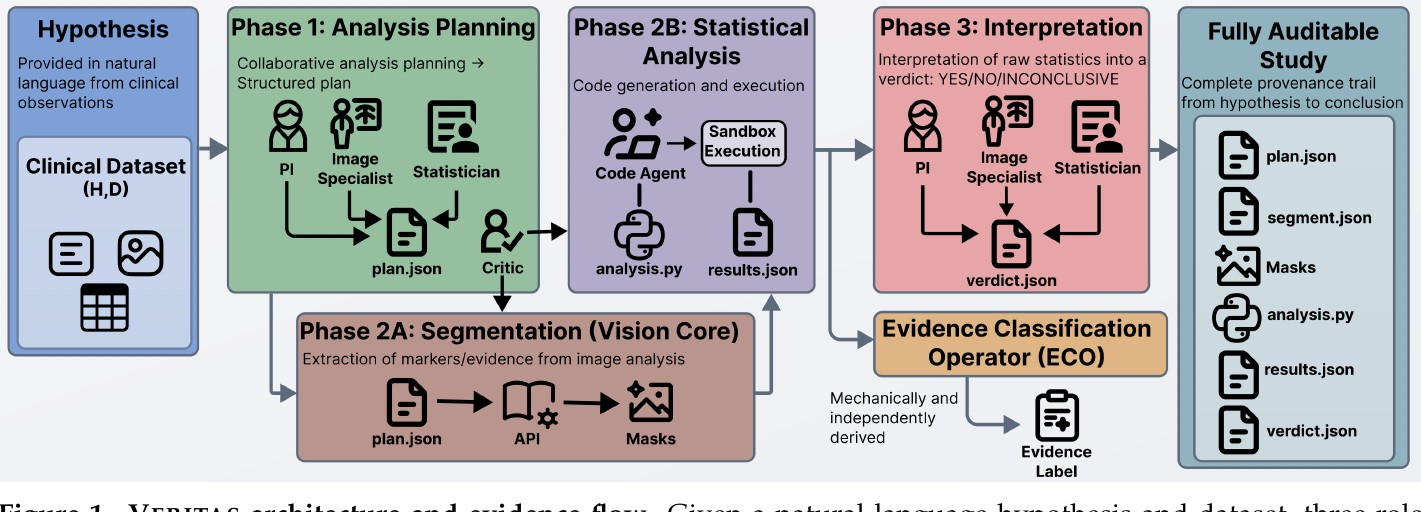
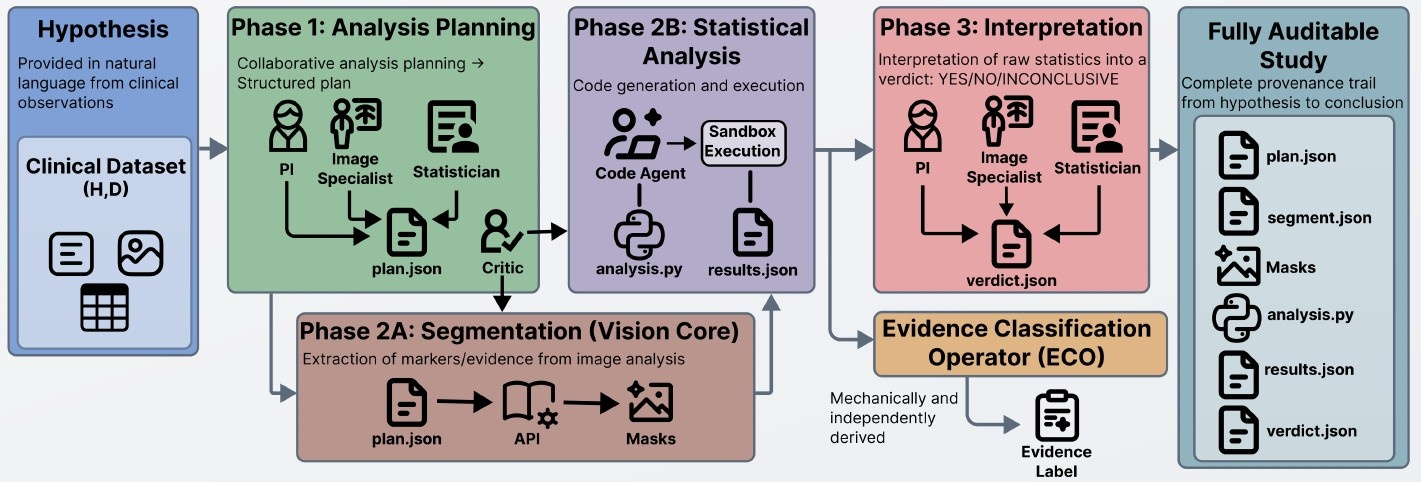
Crop VERITAS hero figure cleanly

diff --git a/js/featured-publications.js b/js/featured-publications.js
@@ -83,7 +83,7 @@ const HERO_TEASERS = {
   auto_6295fd2b61: "Synthetic OCTA data teaches VLMs clinical reasoning."
 };
 
-const DATA_VERSION = window.PaetzoldSite?.componentVersion || "20260615u";
+const DATA_VERSION = window.PaetzoldSite?.componentVersion || "20260615v";
 
 function escapeHTML(value) {
   return String(value ?? "").replace(/[&<>"']/g, char => ({
@@ -244,6 +244,14 @@ function publicationImage(pub) {
   return normalizeLink(pub?.thumbnail) || "./images/publications/default.png";
 }
 
+function versionedImage(src) {
+  const link = normalizeLink(src);
+  if (!link || /^(?:https?:|data:|blob:)/i.test(link)) return link;
+  const url = new URL(link, window.location.href);
+  url.searchParams.set("v", DATA_VERSION);
+  return url.href;
+}
+
 function heroImageAttrs(slideIndex, imageIndex) {
   if (slideIndex === 0) {
     return imageIndex === 0
@@ -280,9 +288,10 @@ function heroCollageItems(pub) {
   return uniqueItems.map((item, offset) => {
     const figureLabel = item.label || pub?.title || "Featured research figure";
     const fullLabel = item.label ? `${pub?.title || "Featured research"} - ${item.label}` : figureLabel;
+    const src = normalizeLink(item.src) || publicationImage(pub);
     return {
       className: classes[offset],
-      src: normalizeLink(item.src) || publicationImage(pub),
+      src: versionedImage(src),
       position: item.position || "center",
       title: figureLabel,
       ariaLabel: fullLabel

diff --git a/index.html b/index.html
@@ -29,12 +29,12 @@
     {"@context":"https://schema.org","@type":"Organization","name":"Paetzold Lab","url":"https://paetzold-lab.github.io/web/","logo":"https://paetzold-lab.github.io/web/images/web_logo.png","description":"Paetzold Lab develops machine learning methods for computer vision, medical imaging, topology, graph learning, and generative AI at Weill Cornell Medicine and Cornell Tech.","parentOrganization":[{"@type":"CollegeOrUniversity","name":"Weill Cornell Medicine"},{"@type":"CollegeOrUniversity","name":"Cornell Tech"}]}
   </script>
 
-  <link rel="stylesheet" href="css/style.css?v=20260615u" />
+  <link rel="stylesheet" href="css/style.css?v=20260615v" />
   <link rel="stylesheet" href="css/contact.css?v=20260615l" />
   <link rel="stylesheet" href="css/research_show.css?v=20260615l" />
-  <script src="js/components.js?v=20260615u" defer></script>
-  <script src="js/main.js?v=20260615u" defer></script>
-  <script src="js/featured-publications.js?v=20260615u" defer></script>
+  <script src="js/components.js?v=20260615v" defer></script>
+  <script src="js/main.js?v=20260615v" defer></script>
+  <script src="js/featured-publications.js?v=20260615v" defer></script>
 </head>
 <body>
   <!-- Component placeholders -->

diff --git a/research.html b/research.html
@@ -23,11 +23,11 @@
   <meta name="twitter:description" content="Recent and representative publications from Paetzold Lab in medical imaging, topology, graph learning, generative AI, and vision-language models." />
   <meta name="twitter:image" content="https://paetzold-lab.github.io/web/images/team/paetzold-lab-group-2026.jpg" />
 
-  <link rel="stylesheet" href="css/style.css?v=20260615u">
+  <link rel="stylesheet" href="css/style.css?v=20260615v">
   <link rel="stylesheet" href="css/research.css?v=20260615m">
-  <script src="js/components.js?v=20260615u" defer></script>
-  <script src="js/main.js?v=20260615u" defer></script>
-  <script type="module" src="js/publications.js?v=20260615u" defer></script>
+  <script src="js/components.js?v=20260615v" defer></script>
+  <script src="js/main.js?v=20260615v" defer></script>
+  <script type="module" src="js/publications.js?v=20260615v" defer></script>
 </head>
 <body>
   <!-- Component placeholders -->

diff --git a/contact.html b/contact.html
@@ -23,10 +23,10 @@
   <meta name="twitter:description" content="Contact Paetzold Lab at Weill Cornell Medicine and Cornell Tech." />
   <meta name="twitter:image" content="https://paetzold-lab.github.io/web/images/team/paetzold-lab-group-2026.jpg" />
 
-  <link rel="stylesheet" href="css/style.css?v=20260615u">
+  <link rel="stylesheet" href="css/style.css?v=20260615v">
   <link rel="stylesheet" href="css/contact.css?v=20260615l">
-  <script src="js/components.js?v=20260615u" defer></script>
-  <script src="js/main.js?v=20260615u" defer></script>
+  <script src="js/components.js?v=20260615v" defer></script>
+  <script src="js/main.js?v=20260615v" defer></script>
 </head>
 <body>
   <div id="header-placeholder"></div>

diff --git a/join_us.html b/join_us.html
@@ -23,11 +23,11 @@
   <meta name="twitter:description" content="Open positions and collaboration opportunities for researchers and students at Paetzold Lab." />
   <meta name="twitter:image" content="https://paetzold-lab.github.io/web/images/team/paetzold-lab-group-2026.jpg" />
 
-  <link rel="stylesheet" href="css/style.css?v=20260615u" />
+  <link rel="stylesheet" href="css/style.css?v=20260615v" />
   <link rel="stylesheet" href="css/joinus.css?v=20260615l" />
   <link rel="stylesheet" href="css/contact.css?v=20260615l" />
-  <script src="js/components.js?v=20260615u" defer></script>
-  <script src="js/main.js?v=20260615u" defer></script>
+  <script src="js/components.js?v=20260615v" defer></script>
+  <script src="js/main.js?v=20260615v" defer></script>
 </head>
 <body>
   <!-- Component placeholders -->

diff --git a/pi.html b/pi.html
@@ -24,9 +24,9 @@
   <meta name="twitter:image" content="https://paetzold-lab.github.io/web/images/portrait/Johannes.jpg" />
 
   <!-- Main CSS (reuse same style) -->
-  <link rel="stylesheet" href="css/style.css?v=20260615u" />
-  <script src="js/components.js?v=20260615u" defer></script>
-  <script src="js/main.js?v=20260615u" defer></script>
+  <link rel="stylesheet" href="css/style.css?v=20260615v" />
+  <script src="js/components.js?v=20260615v" defer></script>
+  <script src="js/main.js?v=20260615v" defer></script>
 </head>
 <body>
   <!-- Component placeholders -->

diff --git a/team.html b/team.html
@@ -23,10 +23,10 @@
   <meta name="twitter:description" content="Meet the researchers and collaborators of Paetzold Lab at Weill Cornell Medicine and Cornell Tech." />
   <meta name="twitter:image" content="https://paetzold-lab.github.io/web/images/team/paetzold-lab-group-2026.jpg" />
 
-  <link rel="stylesheet" href="css/style.css?v=20260615u" />
+  <link rel="stylesheet" href="css/style.css?v=20260615v" />
   <link rel="stylesheet" href="css/research.css?v=20260615m">
-  <script src="js/components.js?v=20260615u" defer></script>
-  <script src="js/main.js?v=20260615u" defer></script>
+  <script src="js/components.js?v=20260615v" defer></script>
+  <script src="js/main.js?v=20260615v" defer></script>
 </head>
 <body>
   <!-- Component placeholders -->

diff --git a/js/components.js b/js/components.js
@@ -1,4 +1,4 @@
-const COMPONENT_VERSION = "20260615u";
+const COMPONENT_VERSION = "20260615v";
 const COMPONENT_SCRIPT_URL = document.currentScript?.src
   ? new URL(document.currentScript.src, document.baseURI)
   : new URL("./js/components.js", document.baseURI);

diff --git a/js/publications.js b/js/publications.js
@@ -20,7 +20,7 @@ const LAB_MEMBER_ALIASES = {
   "Roel van Herten": ["Rudolf van Herten", "R van Herten", "R. van Herten", "R v Herten", "RLM van Herten"],
   "Lucas Stoffl": ["L Stoffl"]
 };
-const DATA_VERSION = window.PaetzoldSite?.componentVersion || "20260615u";
+const DATA_VERSION = window.PaetzoldSite?.componentVersion || "20260615v";
 
 function siteAssetPath(path) {
   if (window.PaetzoldSite?.assetPath) return window.PaetzoldSite.assetPath(path);